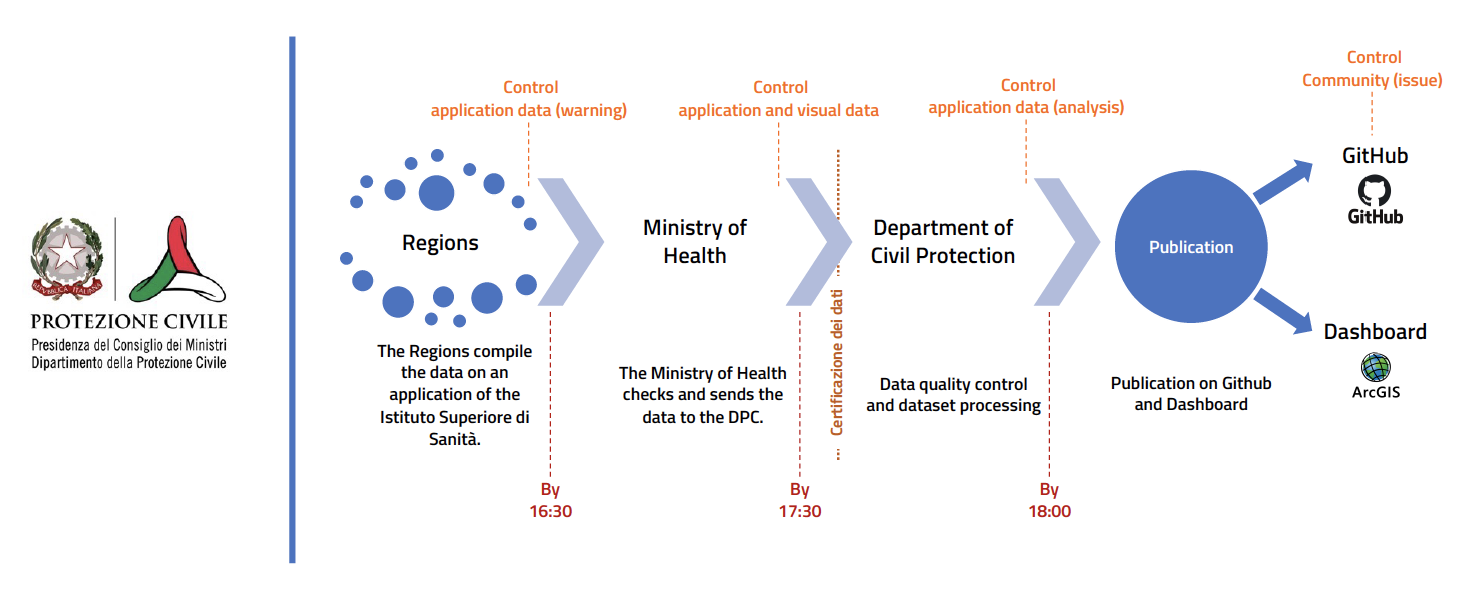
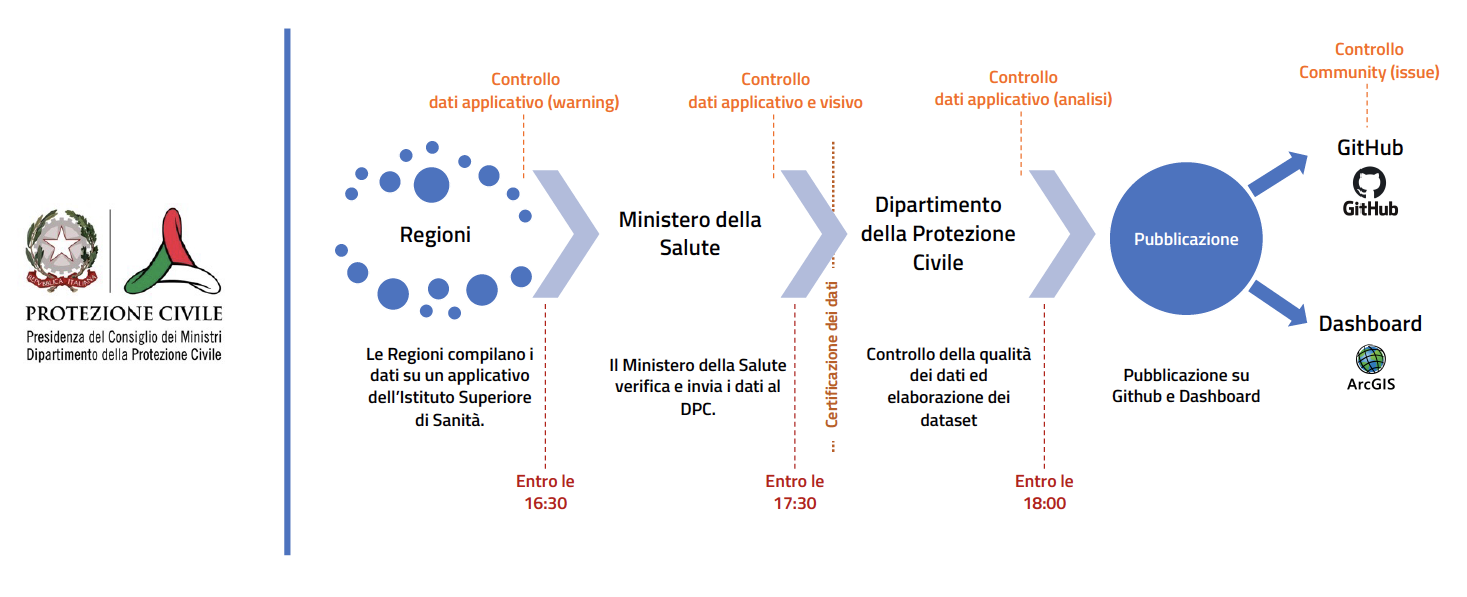
README

diff --git a/README.md b/README.md
@@ -97,6 +97,10 @@ COVID-19/
 <br>
 <img src="assets/img/dpc-covid19-flusso-dati-it.png" alt="Flusso dati COVID-19" data-canonical-src="assets/img/dpc-covid19-flusso-dati-it.png" width="100%" />
 <br>
+- <b>Regioni</b>: entro le 16:30 compilano i dati su un applicativo dell’Istituto Superiore di Sanità (controllo dati applicativo - warning)
+- <b>Ministero della Salute</b> entro le 17:30 verifica e invia i dati al DPC (controllo dati applicativo e visivo - certificazione dei dati)
+- <b>Dipartimento della Protezione Civile</b> entro le 18:00 controllo della qualità dei dati, elaborazione dei dataset e pubblicazione su GitHub e Dashboard ArcGIS (Controllo dati applicativo - analisi)
+
 ## Formato dei dati
 
 - [Dati andamento COVID-19 Italia](dati-andamento-covid19-italia.md)<br>
